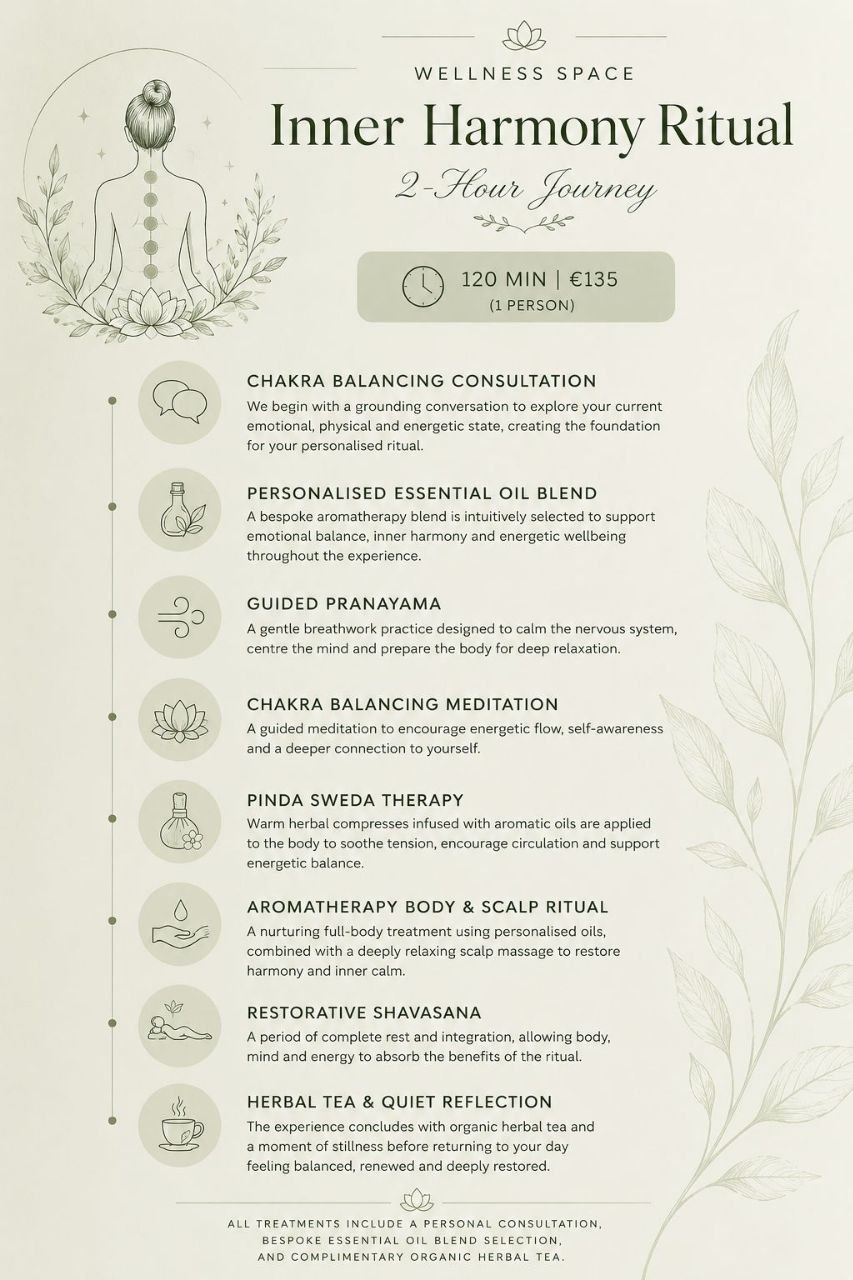
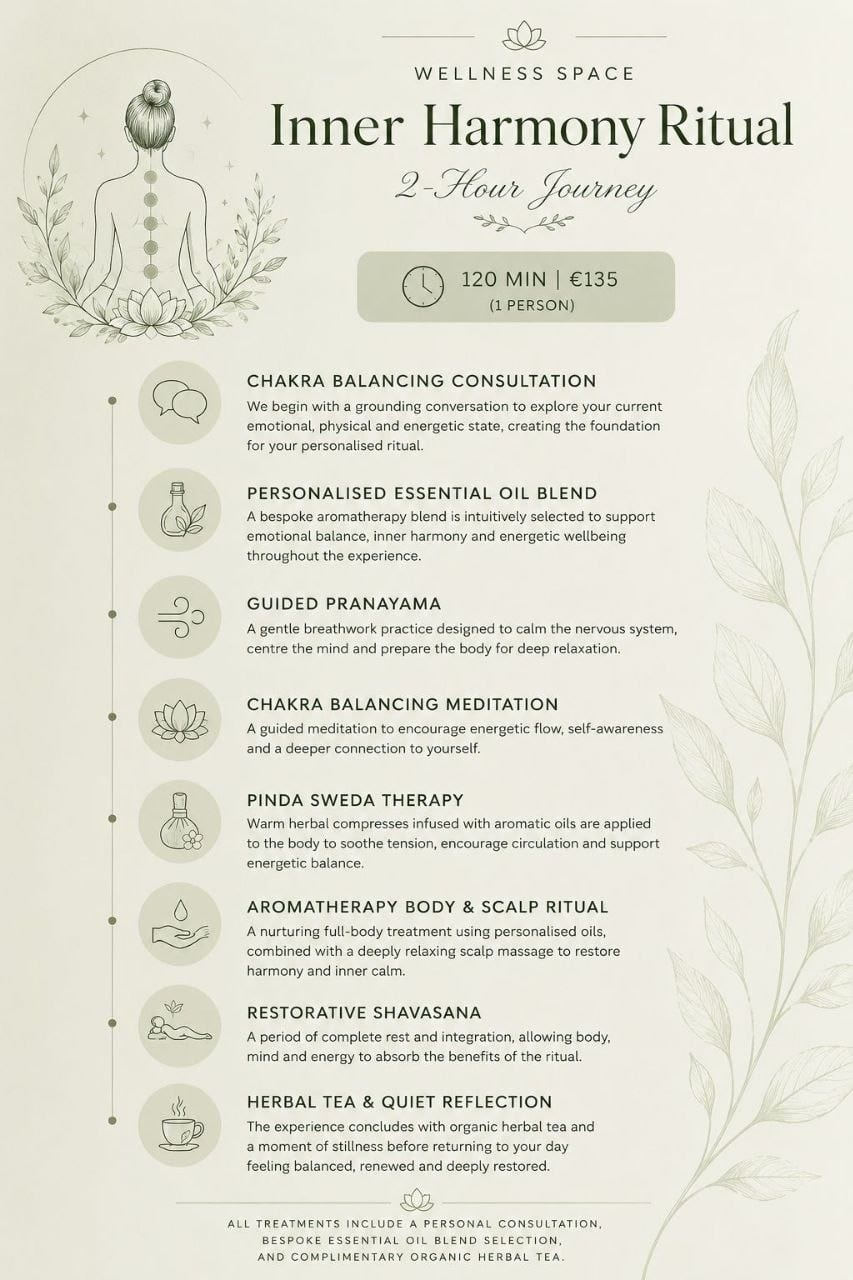
Add FAQ section, refresh media and polish typography
- Add bilingual FAQ accordion (12 Q&A, EN/UK) with nav link
- Replace Aromatherapy & Radiance Facial ritual banners
- Update owner photo (full composition, no square crop)
- Add gift voucher image to FAQ answer
- Bump font sizes in Services, Pricing and nav
- Tighten FAQ→Contact spacing

diff --git a/src/data/faq.ts b/src/data/faq.ts
@@ -1,0 +1,135 @@
+/**
+ * Часто задаваемые вопросы (Q&A). Двуязычно EN/UK.
+ * Тексты EN — от заказчицы; UK — перевод.
+ */
+import type { Locale } from "./site";
+
+export interface FaqItem {
+  q: Record<Locale, string>;
+  a: Record<Locale, string>;
+  image?: string;
+}
+
+export const faq: FaqItem[] = [
+  {
+    q: {
+      en: "What makes your treatments unique?",
+      uk: "Що робить ваші процедури особливими?",
+    },
+    a: {
+      en: "My treatments combine reflexology, aromatherapy, Indian Head Massage, chakra balancing, Pinda Sweda, pranayama, meditation, and therapeutic essential oils. Every session is individually tailored to support your physical, emotional, and energetic wellbeing.",
+      uk: "Мої процедури поєднують рефлексологію, ароматерапію, індійський масаж голови, балансування чакр, Pinda Sweda, пранаяму, медитацію та терапевтичні ефірні олії. Кожен сеанс підбирається індивідуально, щоб підтримати ваше фізичне, емоційне та енергетичне благополуччя.",
+    },
+  },
+  {
+    q: {
+      en: "What can I expect during my first visit?",
+      uk: "Чого очікувати під час першого візиту?",
+    },
+    a: {
+      en: "We begin with a consultation to understand your needs and create a personalised treatment. Each session is unique and designed to help you relax, restore balance, and reconnect with yourself.",
+      uk: "Ми починаємо з консультації, щоб зрозуміти ваші потреби та створити індивідуальну процедуру. Кожен сеанс унікальний і покликаний допомогти вам розслабитися, відновити рівновагу та повернутися до себе.",
+    },
+  },
+  {
+    q: {
+      en: "What conditions can these treatments help with?",
+      uk: "З якими станами можуть допомогти ці процедури?",
+    },
+    a: {
+      en: "Clients often seek support for stress, anxiety, poor sleep, muscle tension, headaches, burnout, emotional overwhelm, and overall wellbeing.",
+      uk: "Клієнти часто звертаються по підтримку при стресі, тривозі, поганому сні, м'язовому напруженні, головних болях, вигоранні, емоційному перевантаженні та для загального добробуту.",
+    },
+  },
+  {
+    q: {
+      en: "Are these treatments a replacement for medical care?",
+      uk: "Чи замінюють ці процедури медичну допомогу?",
+    },
+    a: {
+      en: "No. These therapies complement conventional healthcare but do not replace medical advice, diagnosis, or treatment.",
+      uk: "Ні. Ці терапії доповнюють традиційну медицину, але не замінюють медичних консультацій, діагностики чи лікування.",
+    },
+  },
+  {
+    q: {
+      en: "What should I wear?",
+      uk: "Що вдягнути на сеанс?",
+    },
+    a: {
+      en: "Wear comfortable clothing. During body treatments, professional draping is always used to ensure your comfort and privacy.",
+      uk: "Вдягніть зручний одяг. Під час тілесних процедур завжди використовується професійне накривання (draping) для вашого комфорту та приватності.",
+    },
+  },
+  {
+    q: {
+      en: "How long is a treatment?",
+      uk: "Скільки триває процедура?",
+    },
+    a: {
+      en: "Appointments usually last between 45 and 90 minutes, depending on the treatment.",
+      uk: "Сеанси зазвичай тривають від 45 до 90 хвилин залежно від процедури.",
+    },
+  },
+  {
+    q: {
+      en: "Do I need to prepare before my appointment?",
+      uk: "Чи потрібно готуватися перед сеансом?",
+    },
+    a: {
+      en: "Simply arrive a few minutes early, wear comfortable clothing, and stay well hydrated before and after your treatment.",
+      uk: "Просто приходьте на кілька хвилин раніше, вдягніть зручний одяг та пийте достатньо води до та після процедури.",
+    },
+  },
+  {
+    q: {
+      en: "Can I book if I’m pregnant or have a medical condition?",
+      uk: "Чи можна записатися під час вагітності або за наявності захворювання?",
+    },
+    a: {
+      en: "Please contact me before booking. Some treatments may need to be adapted or may require medical approval.",
+      uk: "Будь ласка, зв’яжіться зі мною перед записом. Деякі процедури можуть потребувати адаптації або медичного дозволу.",
+    },
+  },
+  {
+    q: {
+      en: "Are you a registered therapist?",
+      uk: "Чи є ви зареєстрованим терапевтом?",
+    },
+    a: {
+      en: "Yes. I am a qualified member of the Irish Massage Therapists Association (IMTA) and fully insured to practise in Ireland.",
+      uk: "Так. Я кваліфікований член Ірландської асоціації масажних терапевтів (IMTA) та маю повне страхування для практики в Ірландії.",
+    },
+  },
+  {
+    q: {
+      en: "Can I claim through my health insurance?",
+      uk: "Чи можу я отримати відшкодування через медичне страхування?",
+    },
+    a: {
+      en: "Depending on your policy, treatments provided by an IMTA-registered therapist may be eligible for reimbursement. A receipt will be provided after your appointment for insurance purposes.",
+      uk: "Залежно від вашого полісу, процедури, проведені терапевтом, зареєстрованим в IMTA, можуть підлягати відшкодуванню. Після сеансу ви отримаєте квитанцію для страхових цілей.",
+    },
+  },
+  {
+    q: {
+      en: "What is your cancellation policy?",
+      uk: "Які умови скасування запису?",
+    },
+    a: {
+      en: "Please provide at least 24 hours’ notice if you need to cancel or reschedule your appointment.",
+      uk: "Будь ласка, попереджайте щонайменше за 24 години, якщо вам потрібно скасувати або перенести сеанс.",
+    },
+  },
+  {
+    q: {
+      en: "Do you offer gift vouchers?",
+      uk: "Чи пропонуєте ви подарункові сертифікати?",
+    },
+    a: {
+      en: "Yes. Gift vouchers are available for all treatments and make a thoughtful gift for any occasion.",
+      uk: "Так. Подарункові сертифікати доступні для всіх процедур і стануть чудовим подарунком на будь-яку нагоду.",
+    },
+    image: "/media/gift-voucher.jpg",
+  },
+];

diff --git a/src/data/services.ts b/src/data/services.ts
@@ -178,34 +178,107 @@ export const rituals: Ritual[] = [
     },
   },
   {
-    id: "wellness-ritual",
-    image: "/media/ritual-wellness.jpg",
+    id: "harmony-within",
+    image: "/media/ritual-harmony-within.jpg",
     duration: 120,
     price: 135,
-    name: { en: "Wellness Ritual", uk: "Велнес-ритуал" },
-    subtitle: { en: "2-Hour Journey", uk: "2-годинна подорож" },
+    name: { en: "Harmony Within Ritual", uk: "Ритуал «Гармонія всередині»" },
+    subtitle: {
+      en: "2-Hour Holistic Journey",
+      uk: "2-годинна холістична подорож",
+    },
     desc: {
-      en: "A complete, unhurried ritual from a warm foot soak to your own take-home aromatherapy roller.",
-      uk: "Повний, неквапливий ритуал — від теплої ванночки для ніг до вашого власного арома-ролера додому.",
+      en: "A deeply nurturing journey designed to restore balance, release tension and reconnect you with yourself.",
+      uk: "Глибоко дбайлива подорож, створена щоб відновити баланс, зняти напругу та повернути зв'язок із собою.",
     },
     includes: {
       en: [
-        "Foot soak with rose petals",
-        "Consultation & essential oil selection",
-        "10 min pranayama (breathwork)",
-        "Gentle shavasana (deep relaxation)",
-        "Full body relaxation ritual",
-        "Time to rest in silence",
-        "Take-home aromatherapy roller",
+        "Consultation & aroma selection",
+        "Pranayama (breathwork)",
+        "Reflexology",
+        "Peppermint foot mask & hot boots",
+        "Indian head ritual",
+        "Shavasana (deep relaxation)",
+        "Organic herbal tea",
       ],
       uk: [
-        "Ванночка для ніг з пелюстками троянд",
-        "Консультація та підбір ефірних олій",
-        "10 хв пранаями (дихальні практики)",
-        "М'яка шавасана (глибоке розслаблення)",
-        "Ритуал розслаблення всього тіла",
-        "Час відпочинку в тиші",
-        "Ароматерапевтичний ролер додому",
+        "Консультація та підбір аромаолій",
+        "Пранаяма (дихальні практики)",
+        "Рефлексологія",
+        "М'ятна маска та теплі чобітки для ніг",
+        "Індійський ритуал для голови",
+        "Шавасана (глибоке розслаблення)",
+        "Органічний трав'яний чай",
+      ],
+    },
+  },
+  {
+    id: "radiance-facial",
+    image: "/media/ritual-radiance-facial.jpg",
+    duration: 75,
+    price: 80,
+    name: { en: "Radiance Facial Ritual", uk: "Сяйний ритуал для обличчя" },
+    subtitle: { en: "Facial Ritual", uk: "Ритуал для обличчя" },
+    desc: {
+      en: "Perfect for those seeking radiant skin, deep relaxation and a moment of restorative self-care.",
+      uk: "Ідеально для тих, хто прагне сяючої шкіри, глибокого розслаблення та миті відновлювального догляду за собою.",
+    },
+    includes: {
+      en: [
+        "Personal consultation & skin assessment",
+        "Deep cleansing & exfoliation",
+        "Face, neck & décolletage massage",
+        "Personalised treatment mask",
+        "Indian head or hand & arm massage",
+        "Peppermint foot mask & warm booties",
+        "Serum & moisture finish",
+        "Herbal tea & moment of stillness",
+      ],
+      uk: [
+        "Консультація та оцінка стану шкіри",
+        "Глибоке очищення та ексфоліація",
+        "Масаж обличчя, шиї та декольте",
+        "Індивідуальна доглядова маска",
+        "Індійський масаж голови або масаж рук",
+        "М'ятна маска та теплі чобітки для ніг",
+        "Сироватка та зволожуюче завершення",
+        "Трав'яний чай і мить спокою",
+      ],
+    },
+  },
+  {
+    id: "deep-cleansing",
+    image: "/media/ritual-deep-cleansing.jpg",
+    duration: 75,
+    price: 85,
+    name: { en: "Deep Cleansing Ritual", uk: "Ритуал глибокого очищення" },
+    subtitle: { en: "Facial Ritual", uk: "Ритуал для обличчя" },
+    desc: {
+      en: "Perfect for clear, refreshed and radiant skin, and a moment of deep relaxation.",
+      uk: "Ідеально для чистої, свіжої та сяючої шкіри й миті глибокого розслаблення.",
+    },
+    includes: {
+      en: [
+        "Personal consultation",
+        "Deep cleansing exfoliation",
+        "Pore opening mask",
+        "Ultrasonic cleansing",
+        "Pore closing mask",
+        "Indian head or hand & shoulder massage",
+        "Peppermint foot mask & warm booties",
+        "Serum & moisturising finish",
+        "Herbal tea & moment of stillness",
+      ],
+      uk: [
+        "Особиста консультація",
+        "Глибоке очищення та ексфоліація",
+        "Маска для розкриття пор",
+        "Ультразвукове очищення",
+        "Маска для звуження пор",
+        "Індійський масаж голови або масаж плечей",
+        "М'ятна маска та теплі чобітки для ніг",
+        "Сироватка та зволожуюче завершення",
+        "Трав'яний чай і мить спокою",
       ],
     },
   },

diff --git a/src/i18n/ui.ts b/src/i18n/ui.ts
@@ -10,6 +10,7 @@ export const ui = {
     "nav.services": "Services",
     "nav.rituals": "Rituals",
     "nav.pricing": "Pricing",
+    "nav.faq": "FAQ",
     "nav.qualifications": "Qualifications",
     "nav.contact": "Contact",
     "nav.book": "Book now",
@@ -25,6 +26,7 @@ export const ui = {
     "cert.subtitle":
       "Fully qualified and insured, with internationally recognised iTEC / VTCT diplomas.",
     "cert.member": "Status",
+    "cert.validUntil": "Valid until",
     "cert.view": "View certificate",
     "cert.toggle": "View certificates",
     "cert.hide": "Hide certificates",
@@ -35,9 +37,12 @@ export const ui = {
     "services.book": "Book",
 
     "rituals.title": "Signature Rituals",
-    "rituals.subtitle": "Two-hour holistic journeys to fully reset.",
+    "rituals.subtitle": "Immersive holistic journeys, crafted to fully restore you.",
     "rituals.includes": "Includes",
     "rituals.book": "Book this ritual",
+
+    "faq.title": "Frequently Asked Questions",
+    "faq.subtitle": "Everything you might want to know before your visit.",
 
     "pricing.title": "Price List",
     "pricing.note":
@@ -78,6 +83,7 @@ export const ui = {
     "nav.services": "Послуги",
     "nav.rituals": "Ритуали",
     "nav.pricing": "Ціни",
+    "nav.faq": "Питання",
     "nav.qualifications": "Кваліфікація",
     "nav.contact": "Контакти",
     "nav.book": "Записатися",
@@ -93,6 +99,7 @@ export const ui = {
     "cert.subtitle":
       "Повна кваліфікація та страхування, міжнародно визнані дипломи iTEC / VTCT.",
     "cert.member": "Статус",
+    "cert.validUntil": "Дійсний до",
     "cert.view": "Переглянути сертифікат",
     "cert.toggle": "Переглянути сертифікати",
     "cert.hide": "Сховати сертифікати",
@@ -103,9 +110,12 @@ export const ui = {
     "services.book": "Записатись",
 
     "rituals.title": "Фірмові ритуали",
-    "rituals.subtitle": "Двогодинні цілісні подорожі для повного перезавантаження.",
+    "rituals.subtitle": "Занурювальні цілісні подорожі для повного відновлення.",
     "rituals.includes": "Включає",
     "rituals.book": "Записатись на ритуал",
+
+    "faq.title": "Часті запитання",
+    "faq.subtitle": "Усе, що варто знати перед візитом.",
 
     "pricing.title": "Прайс-лист",
     "pricing.note":

diff --git a/src/data/certificates.ts b/src/data/certificates.ts
@@ -14,6 +14,7 @@ export const membership = {
   org: "Irish Massage Therapists Association (IMTA)",
   status: { en: "Full Member", uk: "Повноправний член" },
   number: "2972",
+  validUntil: "14 March 2027",
   image: "/media/certificates/imta-membership.jpg",
 };
 